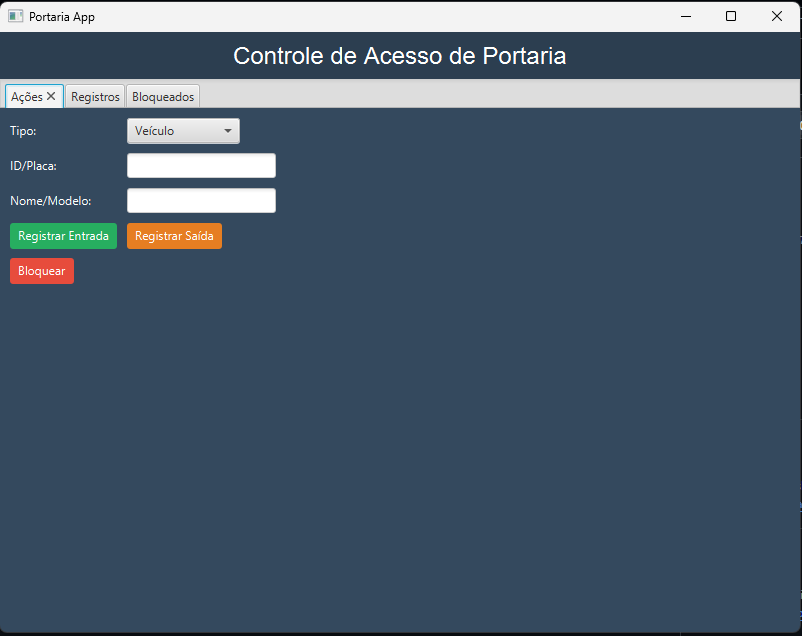
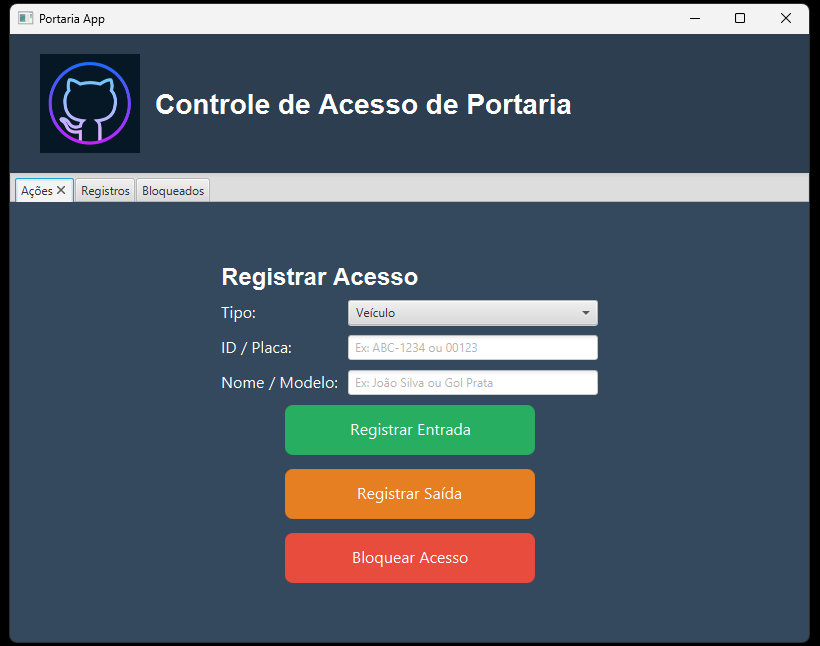
update

Changed region(s): [[0.0, 0.0, 1.0, 1.0]]

diff --git a/src/ControlePortariaApp.java b/src/ControlePortariaApp.java
@@ -213,49 +213,72 @@ root.setTop(topBox);
 }
 
     private GridPane criarGridAcoes() {
-        GridPane grid = new GridPane();
-        grid.setStyle("-fx-background-color: #34495E;");
+    GridPane grid = new GridPane();
+    grid.setHgap(15);
+    grid.setVgap(20);
+    grid.setPadding(new Insets(30));
+    grid.setAlignment(Pos.CENTER);
 
-        // Campos comuns
-        Label lblTipo = new Label("Tipo:");
-        lblTipo.setTextFill(Color.WHITE);
-        ComboBox<String> cbTipo = new ComboBox<>(FXCollections.observableArrayList("Veículo", "Colaborador"));
-        cbTipo.setValue("Veículo");
+    // Título da aba
+    Label tituloAcoes = new Label("Registrar Acesso");
+    tituloAcoes.setFont(new Font("Arial Bold", 24));
+    tituloAcoes.setTextFill(Color.WHITE);  // Força branco
+    grid.add(tituloAcoes, 0, 0, 2, 1);
 
-        Label lblId = new Label("ID/Placa:");
-        lblId.setTextFill(Color.WHITE);
-        TextField tfId = new TextField();
+    Label lblTipo = new Label("Tipo:");
+    lblTipo.setFont(new Font(16));
+    lblTipo.setTextFill(Color.WHITE);  // Branco
 
-        Label lblNome = new Label("Nome/Modelo:");
-        lblNome.setTextFill(Color.WHITE);
-        TextField tfNome = new TextField();
+    ComboBox<String> cbTipo = new ComboBox<>(FXCollections.observableArrayList("Veículo", "Colaborador"));
+    cbTipo.setValue("Veículo");
+    cbTipo.setPrefWidth(250);
 
-        // Botões de ações
-        Button btnEntrada = new Button("Registrar Entrada");
-        btnEntrada.setStyle("-fx-background-color: #27AE60; -fx-text-fill: white;");
-        btnEntrada.setOnAction(e -> registrarAcesso(cbTipo.getValue(), tfId.getText(), tfNome.getText(), "Entrada"));
+    Label lblId = new Label("ID / Placa:");
+    lblId.setFont(new Font(16));
+    lblId.setTextFill(Color.WHITE);
 
-        Button btnSaida = new Button("Registrar Saída");
-        btnSaida.setStyle("-fx-background-color: #E67E22; -fx-text-fill: white;");
-        btnSaida.setOnAction(e -> registrarAcesso(cbTipo.getValue(), tfId.getText(), tfNome.getText(), "Saída"));
+    TextField tfId = new TextField();
+    tfId.setPrefWidth(250);
+    tfId.setPromptText("Ex: ABC-1234 ou 00123");
 
-        Button btnBloquear = new Button("Bloquear");
-        btnBloquear.setStyle("-fx-background-color: #E74C3C; -fx-text-fill: white;");
-        btnBloquear.setOnAction(e -> bloquear(tfId.getText()));
+    Label lblNome = new Label("Nome / Modelo:");
+    lblNome.setFont(new Font(16));
+    lblNome.setTextFill(Color.WHITE);
 
-        // Posicionamento
-        grid.add(lblTipo, 0, 0);
-        grid.add(cbTipo, 1, 0);
-        grid.add(lblId, 0, 1);
-        grid.add(tfId, 1, 1);
-        grid.add(lblNome, 0, 2);
-        grid.add(tfNome, 1, 2);
-        grid.add(btnEntrada, 0, 3);
-        grid.add(btnSaida, 1, 3);
-        grid.add(btnBloquear, 0, 4, 2, 1);
+    TextField tfNome = new TextField();
+    tfNome.setPrefWidth(250);
+    tfNome.setPromptText("Ex: João Silva ou Gol Prata");
 
-        return grid;
-    }
+    // Botões
+    Button btnEntrada = new Button("Registrar Entrada");
+    btnEntrada.setStyle("-fx-background-color: #27AE60; -fx-text-fill: white; -fx-font-size: 16; -fx-padding: 12 30; -fx-background-radius: 8;");
+    btnEntrada.setPrefWidth(250);
+    btnEntrada.setOnAction(e -> registrarAcesso(cbTipo.getValue(), tfId.getText(), tfNome.getText(), "Entrada"));
+
+    Button btnSaida = new Button("Registrar Saída");
+    btnSaida.setStyle("-fx-background-color: #E67E22; -fx-text-fill: white; -fx-font-size: 16; -fx-padding: 12 30; -fx-background-radius: 8;");
+    btnSaida.setPrefWidth(250);
+    btnSaida.setOnAction(e -> registrarAcesso(cbTipo.getValue(), tfId.getText(), tfNome.getText(), "Saída"));
+
+    Button btnBloquear = new Button("Bloquear Acesso");
+    btnBloquear.setStyle("-fx-background-color: #E74C3C; -fx-text-fill: white; -fx-font-size: 16; -fx-padding: 12 30; -fx-background-radius: 8;");
+    btnBloquear.setPrefWidth(250);
+    btnBloquear.setOnAction(e -> bloquear(tfId.getText()));
+
+    // Posicionamento
+    grid.add(lblTipo, 0, 1);
+    grid.add(cbTipo, 1, 1);
+    grid.add(lblId, 0, 2);
+    grid.add(tfId, 1, 2);
+    grid.add(lblNome, 0, 3);
+    grid.add(tfNome, 1, 3);
+
+    VBox boxBotoes = new VBox(15, btnEntrada, btnSaida, btnBloquear);
+    boxBotoes.setAlignment(Pos.CENTER);
+    grid.add(boxBotoes, 0, 4, 2, 1);
+
+    return grid;
+}
 
     private void registrarAcesso(String tipo, String idEntidade, String nomeModelo, String acesso) {
         if (idEntidade.isEmpty() || nomeModelo.isEmpty()) {
